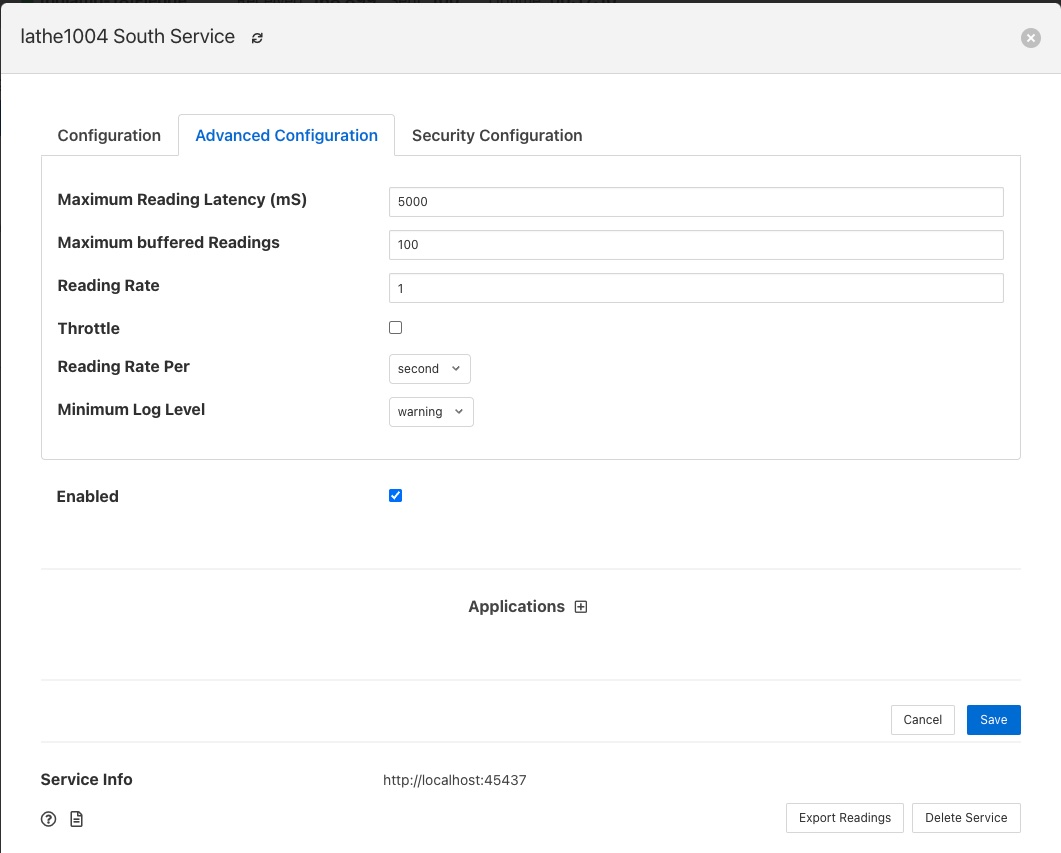
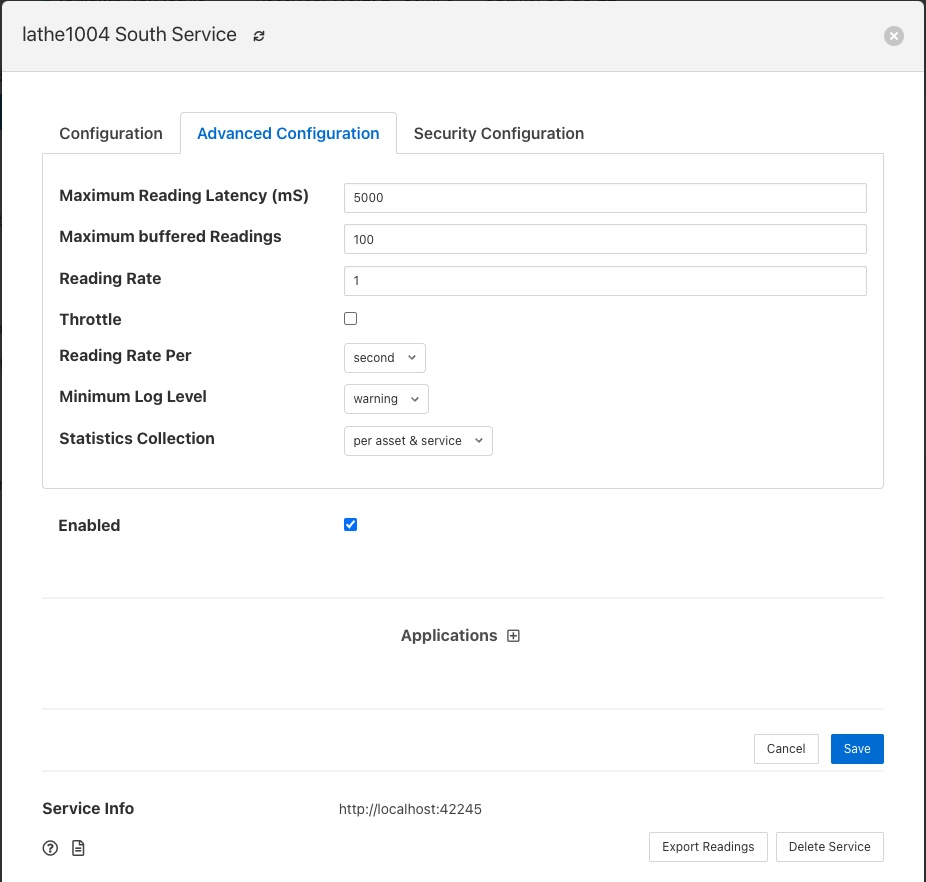
FOGL-7066 Add an advanced option to the south serice to control the (#864)
level of statistics that are collected

diff --git a/C/services/south/ingest.cpp b/C/services/south/ingest.cpp
@@ -173,36 +173,40 @@ void Ingest::updateStats()
 		}
 		
 		if (it->second)
+		{
+			if (m_statisticsOption == STATS_BOTH || m_statisticsOption == STATS_ASSET)
 			{
-			// Prepare fledge.statistics update
-			key = it->first;
-			for (auto & c: key) c = toupper(c);
+				// Prepare fledge.statistics update
+				key = it->first;
+				for (auto & c: key) c = toupper(c);
 
-			// Prepare "WHERE key = name
-			Where *wPluginStat = new Where("key", conditionStat, key);
+				// Prepare "WHERE key = name
+				Where *wPluginStat = new Where("key", conditionStat, key);
 
-			// Prepare value = value + inc
-			ExpressionValues *updateValue = new ExpressionValues;
-			updateValue->push_back(Expression("value", "+", (int) it->second));
+				// Prepare value = value + inc
+				ExpressionValues *updateValue = new ExpressionValues;
+				updateValue->push_back(Expression("value", "+", (int) it->second));
 
-			statsUpdates.emplace_back(updateValue, wPluginStat);
+				statsUpdates.emplace_back(updateValue, wPluginStat);
+			}
 			readings += it->second;
 		}
 	}
 
-	if(readings)
+	if (readings)
 	{
 		Where *wPluginStat = new Where("key", conditionStat, "READINGS");
 		ExpressionValues *updateValue = new ExpressionValues;
 		updateValue->push_back(Expression("value", "+", (int) readings));
 		statsUpdates.emplace_back(updateValue, wPluginStat);
-	}
-	if(readings)
-	{
-		Where *wPluginStat = new Where("key", conditionStat, m_serviceName + INGEST_SUFFIX);
-		ExpressionValues *updateValue = new ExpressionValues;
-		updateValue->push_back(Expression("value", "+", (int) readings));
-		statsUpdates.emplace_back(updateValue, wPluginStat);
+
+		if (m_statisticsOption == STATS_BOTH || m_statisticsOption == STATS_SERVICE)
+		{
+			Where *wPluginStat = new Where("key", conditionStat, m_serviceName + INGEST_SUFFIX);
+			ExpressionValues *updateValue = new ExpressionValues;
+			updateValue->push_back(Expression("value", "+", (int) readings));
+			statsUpdates.emplace_back(updateValue, wPluginStat);
+		}
 	}
 	if (m_discardedReadings)
 	{
@@ -275,7 +279,8 @@ Ingest::Ingest(StorageClient& storage,
 			m_mgtClient(mgmtClient),
 			m_failCnt(0),
 			m_storageFailed(false),
-			m_storesFailed(0)
+			m_storesFailed(0),
+			m_statisticsOption(STATS_BOTH)
 {
 	m_shutdown = false;
 	m_running = true;
@@ -1260,4 +1265,19 @@ void Ingest::unDeprecateStorageAssetTrackingRecord(StorageAssetTrackingTuple* cu
 		delete updatedTuple;
 }
 
-
+/**
+ * Set the statistics option. The statistics collection regime may be one of
+ * "per asset", "per service" or "per asset & service".
+ *
+ * @param option	The desired statistics collection regime
+ */
+void Ingest::setStatistics(const string& option)
+{
+	unique_lock<mutex> lck(m_statsMutex);
+	if (option.compare("per asset") == 0)
+		m_statisticsOption = STATS_ASSET;
+	else if (option.compare("per service") == 0)
+		m_statisticsOption = STATS_SERVICE;
+	else
+		m_statisticsOption = STATS_BOTH;
+}

diff --git a/C/services/south/south.cpp b/C/services/south/south.cpp
@@ -391,6 +391,11 @@ void SouthService::start(string& coreAddress, unsigned short corePort)
 		Ingest ingest(storage, timeout, threshold, m_name, pluginName, m_mgtClient);
 		m_ingest = &ingest;
 
+		if (m_configAdvanced.itemExists("statistics"))
+		{
+			m_ingest->setStatistics(m_configAdvanced.getValue("statistics"));
+		}
+
 		try {
 			m_readingsPerSec = 1;
 			if (m_configAdvanced.itemExists("readingsPerSec"))
@@ -830,6 +835,10 @@ void SouthService::configChange(const string& categoryName, const string& catego
 	if (categoryName.compare(m_name+"Advanced") == 0)
 	{
 		m_configAdvanced = ConfigCategory(m_name+"Advanced", category);
+		if (m_configAdvanced.itemExists("statistics"))
+		{
+			m_ingest->setStatistics(m_configAdvanced.getValue("statistics"));
+		}
 		if (! southPlugin->isAsync())
 		{
 			try {
@@ -977,6 +986,12 @@ void SouthService::addConfigDefaults(DefaultConfigCategory& defaultConfig)
 	defaultConfig.addItem("logLevel", "Minimum logging level reported",
 			"warning", "warning", logLevels);
 	defaultConfig.setItemDisplayName("logLevel", "Minimum Log Level");
+
+	/* Add the set of logging levels to the service */
+	vector<string>	statistics = { "per asset", "per service", "per asset & service" };
+	defaultConfig.addItem("statistics", "Collect statistics either for every asset ingested, for the service in total or both",
+			"per asset & service", "per asset & service", statistics);
+	defaultConfig.setItemDisplayName("statistics", "Statistics Collection");
 }
 
 /**

diff --git a/C/services/south/include/ingest.h b/C/services/south/include/ingest.h
@@ -77,6 +77,7 @@ public:
 							const std::string& event);
 	void            unDeprecateStorageAssetTrackingRecord(StorageAssetTrackingTuple* currentTuple,
                                                         const std::string& assetName, const std::string&, const unsigned int&);
+	void		setStatistics(const std::string& option);
 
 
 private:
@@ -127,6 +128,8 @@ private:
 	bool				m_storageFailed;
 	int				m_storesFailed;
 	int				m_statsUpdateFails;
+	enum { STATS_BOTH, STATS_ASSET, STATS_SERVICE }
+					m_statisticsOption;
 };
 
 #endif

diff --git a/docs/tuning_fledge.rst b/docs/tuning_fledge.rst
@@ -1,5 +1,6 @@
 .. Images
 .. |south_advanced| image:: images/south_advanced.jpg
+.. |stats_options| image:: images/stats_options.jpg
 .. |north_advanced| image:: images/north_advanced.jpg
 .. |service_monitor| image:: images/service_monitor.jpg
 .. |scheduler_advanced| image:: images/scheduler_advanced.jpg
@@ -48,6 +49,18 @@ The south services within Fledge each have a set of advanced configuration optio
   - *Reading Rate Per* - This defines the units to be used in the *Reading Rate* value. It allows the selection of per *second*, *minute* or *hour*.
 
   - *Minimum Log Level* - This configuration option can be used to set the logs that will be seen for this service. It defines the level of logging that is send to the syslog and may be set to *error*, *warning*, *info* or *debug*. Logs of the level selected and higher will be sent to the syslog. You may access the contents of these logs by selecting the log icon in the bottom left of this screen.
+
+  - *Statistics Collection* - This configuration option can be used to control how detailed the statistics collected by the south service are. There are three options that may be selected
+
+    +-----------------+
+    | |stats_options| |
+    +-----------------+
+
+    The default, *per asset & per service* setting will collect one statistic per asset ingested and an overall statistic for the entire service. The *per service* option just collects the overall service ingest statistics and the *per asset* option just collects the statistics for each asset and not for the entire service. 
+
+.. note::
+
+   The *Statistics Collection* setting will not remove any existing statistics, these will remain and remain to be represented in the statistics history. This only impacts new values that are collected. It is recommended that this be set before a service is started for the first time if the desire it to have no statistics values recorded for either assets or the service.
 
 Tuning Buffer Usage
 -------------------
